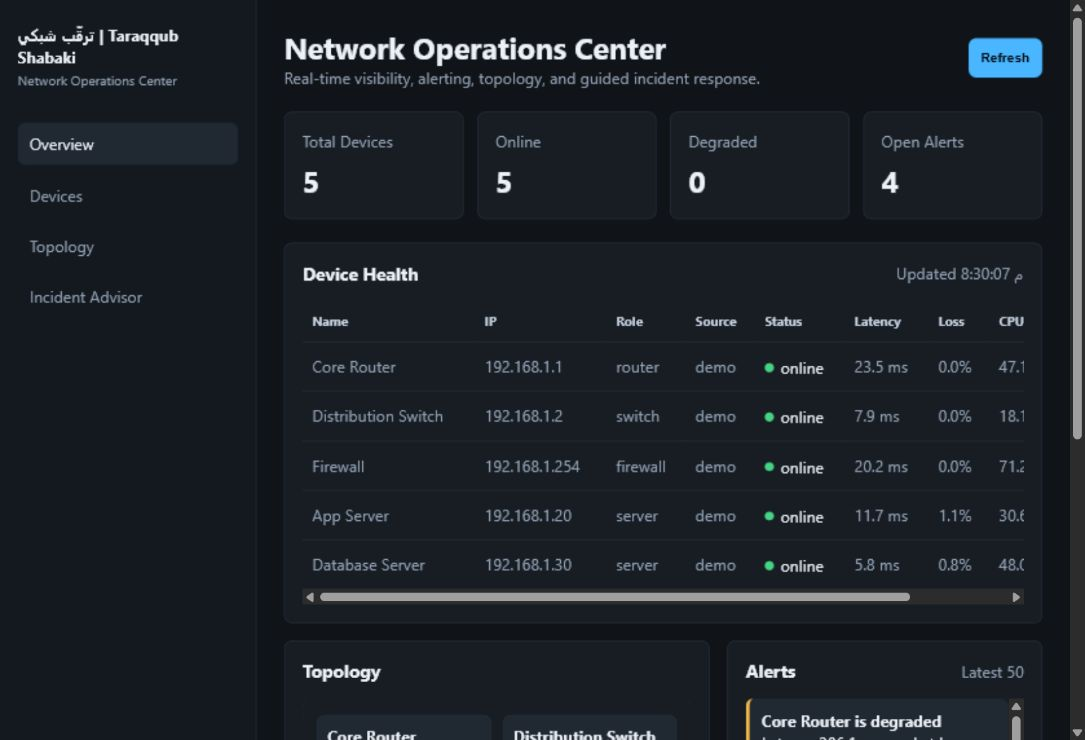
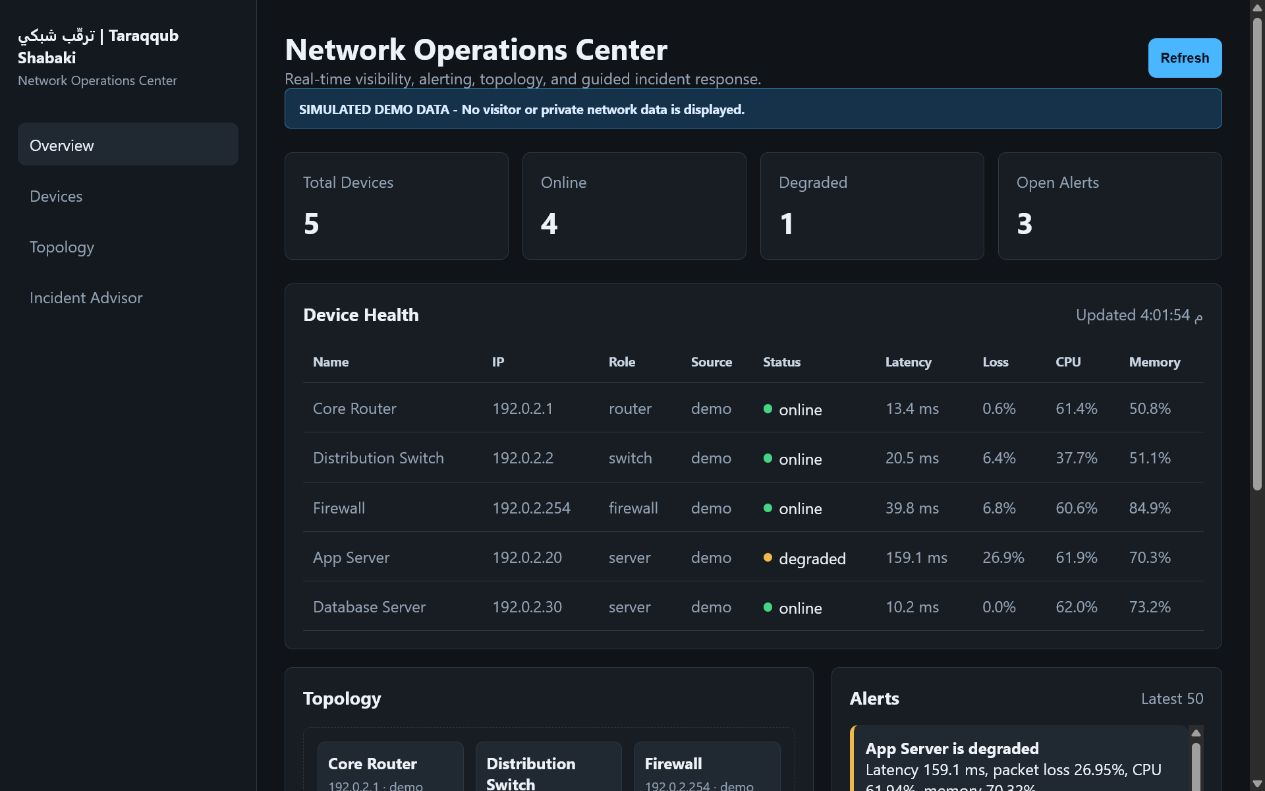
Clarify simulated demo network data

diff --git a/app/static/styles.css b/app/static/styles.css
@@ -365,6 +365,17 @@ pre {
   margin-top: 12px;
 }
 
+.demo-notice {
+  margin-bottom: 18px;
+  padding: 11px 14px;
+  color: #dcecff;
+  background: #16324a;
+  border: 1px solid #2f78a8;
+  border-radius: 6px;
+  font-size: 13px;
+  font-weight: 700;
+}
+
 .hidden {
   display: none !important;
 }

diff --git a/app/static/index.html b/app/static/index.html
@@ -4,7 +4,7 @@
     <meta charset="utf-8">
     <meta name="viewport" content="width=device-width, initial-scale=1">
     <title>ترقّب شبكي | Taraqqub Shabaki</title>
-    <link rel="stylesheet" href="/static/styles.css?v=6">
+    <link rel="stylesheet" href="/static/styles.css?v=7">
   </head>
   <body>
     <aside class="sidebar">
@@ -35,6 +35,10 @@
         </div>
         <button id="refreshBtn" type="button">Refresh</button>
       </section>
+
+      <div id="demoNotice" class="demo-notice hidden" role="status">
+        SIMULATED DEMO DATA - No visitor or private network data is displayed.
+      </div>
 
       <section class="kpis" aria-label="Network summary">
         <article>

diff --git a/app/static/app.js b/app/static/app.js
@@ -217,6 +217,9 @@ async function bootstrap() {
   }
   document.querySelector("#sessionUser").textContent =
     `${state.session.username} · ${state.session.role}`;
+  if (state.session.username === "demo") {
+    document.querySelector("#demoNotice").classList.remove("hidden");
+  }
   if (state.session.role === "admin") {
     document.querySelector("#users").classList.remove("hidden");
     document.querySelector("#usersNav").classList.remove("hidden");

diff --git a/app/database.py b/app/database.py
@@ -86,11 +86,11 @@ CREATE INDEX IF NOT EXISTS idx_audit_logs_created_at ON audit_logs(created_at);
 
 
 SEED_DEVICES = [
-    ("Core Router", "192.168.1.1", "router", "Cisco", "Main Site"),
-    ("Distribution Switch", "192.168.1.2", "switch", "Cisco", "Main Site"),
-    ("Firewall", "192.168.1.254", "firewall", "Fortinet", "Edge"),
-    ("App Server", "192.168.1.20", "server", "Linux", "Server Room"),
-    ("Database Server", "192.168.1.30", "server", "Linux", "Server Room"),
+    ("Core Router", "192.0.2.1", "router", "Cisco", "Main Site"),
+    ("Distribution Switch", "192.0.2.2", "switch", "Cisco", "Main Site"),
+    ("Firewall", "192.0.2.254", "firewall", "Fortinet", "Edge"),
+    ("App Server", "192.0.2.20", "server", "Linux", "Server Room"),
+    ("Database Server", "192.0.2.30", "server", "Linux", "Server Room"),
 ]
 
 

diff --git a/app/services.py b/app/services.py
@@ -84,7 +84,7 @@ def discovery_preview() -> dict:
         "mode": "preview",
         "message": "Nmap discovery hook is ready. Replace preview data with authorized subnet scans.",
         "discovered": [
-            {"ip_address": "192.168.1.10", "hostname": "helpdesk-pc", "open_ports": [22, 3389]},
-            {"ip_address": "192.168.1.40", "hostname": "backup-nas", "open_ports": [22, 445, 8080]},
+            {"ip_address": "192.0.2.10", "hostname": "helpdesk-pc", "open_ports": [22, 3389]},
+            {"ip_address": "192.0.2.40", "hostname": "backup-nas", "open_ports": [22, 445, 8080]},
         ],
     }